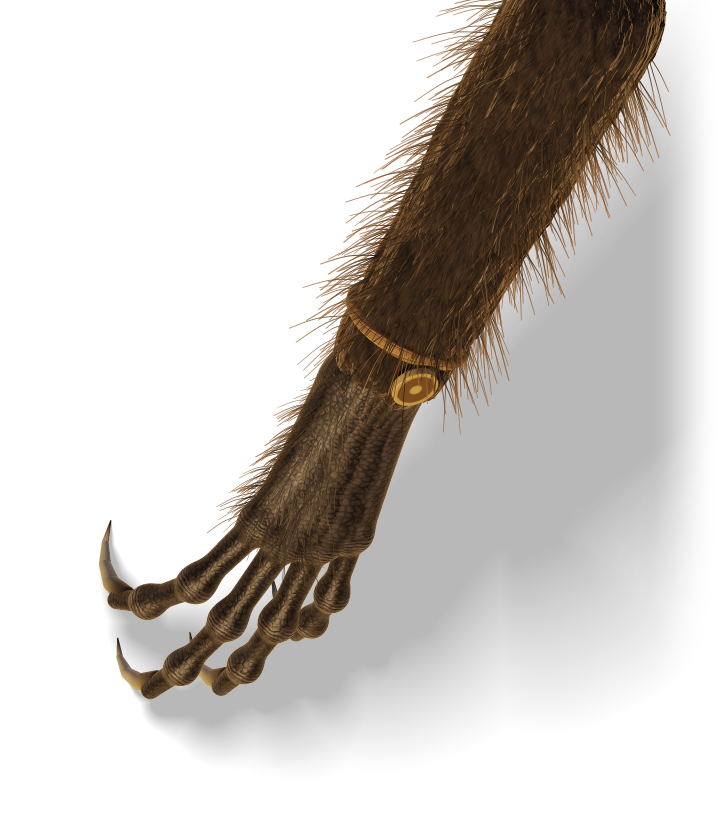
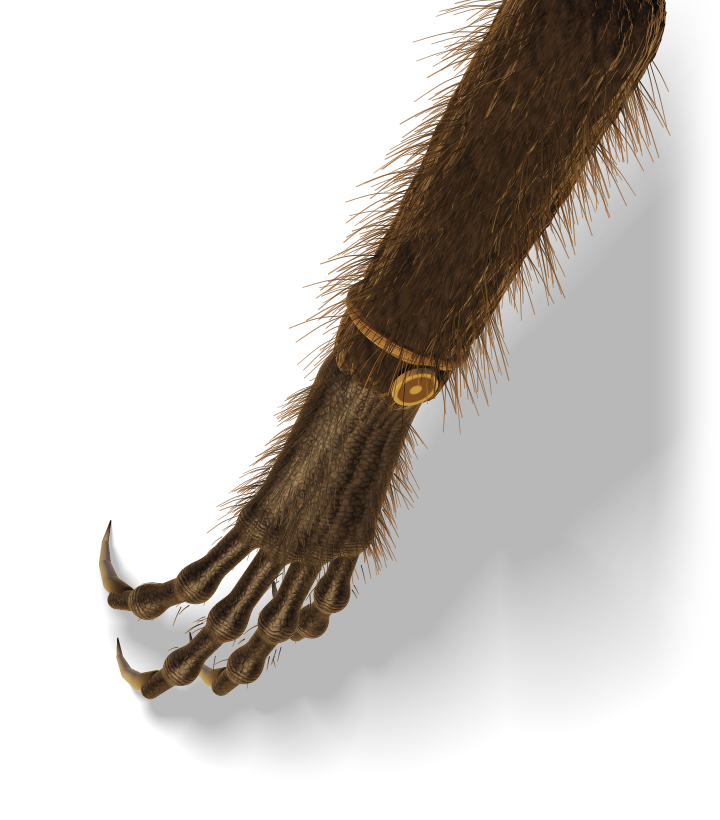
Plant the paw's hand and finger hair
The renderer's 4000-strand budget ran out on the arm fur, so the hair
rules for the back of the hand and the finger joints never ran. The
budget now covers every rule and the renderer warns if it is ever
exhausted. The re-rendered exposures keep the same geometry and take
table; the hand gains wiry hair and sparse knuckle bristles.

preview.c now checks its arguments, take.txt, frame reads and the
sheet write instead of crashing on bad input.

Found by the GLM review of 47e9e930.

diff --git a/media-sources/paw/preview.c b/media-sources/paw/preview.c
@@ -43,9 +43,11 @@ static void card(cairo_t *cr, double w, double h) {
 }
 
 int main(int argc, char **argv) {
+    if (argc != 3) { fprintf(stderr, "usage: preview <frames dir> <out.png>\n"); return 2; }
     const char *dir = argv[1];
     char tablePath[1024]; snprintf(tablePath, sizeof tablePath, "%s/take.txt", dir);
     FILE *table = fopen(tablePath, "r"); double iw, ih;
+    if (!table) { fprintf(stderr, "preview: cannot read %s\n", tablePath); return 1; }
     if (fscanf(table, "%lf %lf %lf %lf", &iw, &ih, &anchorX, &anchorY) != 4) return 1;
     char word[32]; double a, b;
     while (fscanf(table, "%31s %lf %lf", word, &a, &b) == 3) {
@@ -63,6 +65,7 @@ int main(int argc, char **argv) {
         char path[1024];
         snprintf(path, sizeof path, "%s/wish-paw-%02d@2x.png", dir, frames[f].image);
         cairo_surface_t *paw = cairo_image_surface_create_from_png(path);
+        if (cairo_surface_status(paw) != CAIRO_STATUS_SUCCESS) { fprintf(stderr, "preview: cannot read %s\n", path); return 1; }
 
         cairo_save(out);
         cairo_scale(out, scale, scale);
@@ -126,6 +129,8 @@ int main(int argc, char **argv) {
         cairo_surface_destroy(paw);
     }
     cairo_destroy(out);
-    cairo_surface_write_to_png(sheet, argv[2]);
+    cairo_status_t written = cairo_surface_write_to_png(sheet, argv[2]);
+    cairo_surface_destroy(sheet);
+    if (written != CAIRO_STATUS_SUCCESS) { fprintf(stderr, "preview: cannot write %s\n", argv[2]); return 1; }
     return 0;
 }

diff --git a/media-sources/paw/render-paw.c b/media-sources/paw/render-paw.c
@@ -534,7 +534,8 @@ static inline float tonemap(float x) {
 // ------------------------------------------------------------------- fur --
 
 typedef struct { int bone; float t, ang, length, lean; } Strand;
-#define MAX_STRANDS 4000
+// Room for every rule below: arm fur, hand hair and sparse finger hairs.
+#define MAX_STRANDS 8000
 static Strand strands[MAX_STRANDS];
 static int strandCount;
 
@@ -561,6 +562,8 @@ static void plant_strands(const Scene *s) {
             st->lean = lean;
         }
     }
+    // A full budget silently drops the hair of later bones.
+    if (strandCount == MAX_STRANDS) fprintf(stderr, "render-paw: strand budget exhausted; raise MAX_STRANDS\n");
 }
 
 static void draw_strands(cairo_t *cr, const Scene *s, const Job *job, const unsigned char *pixels, int stride, uint32_t seed) {
